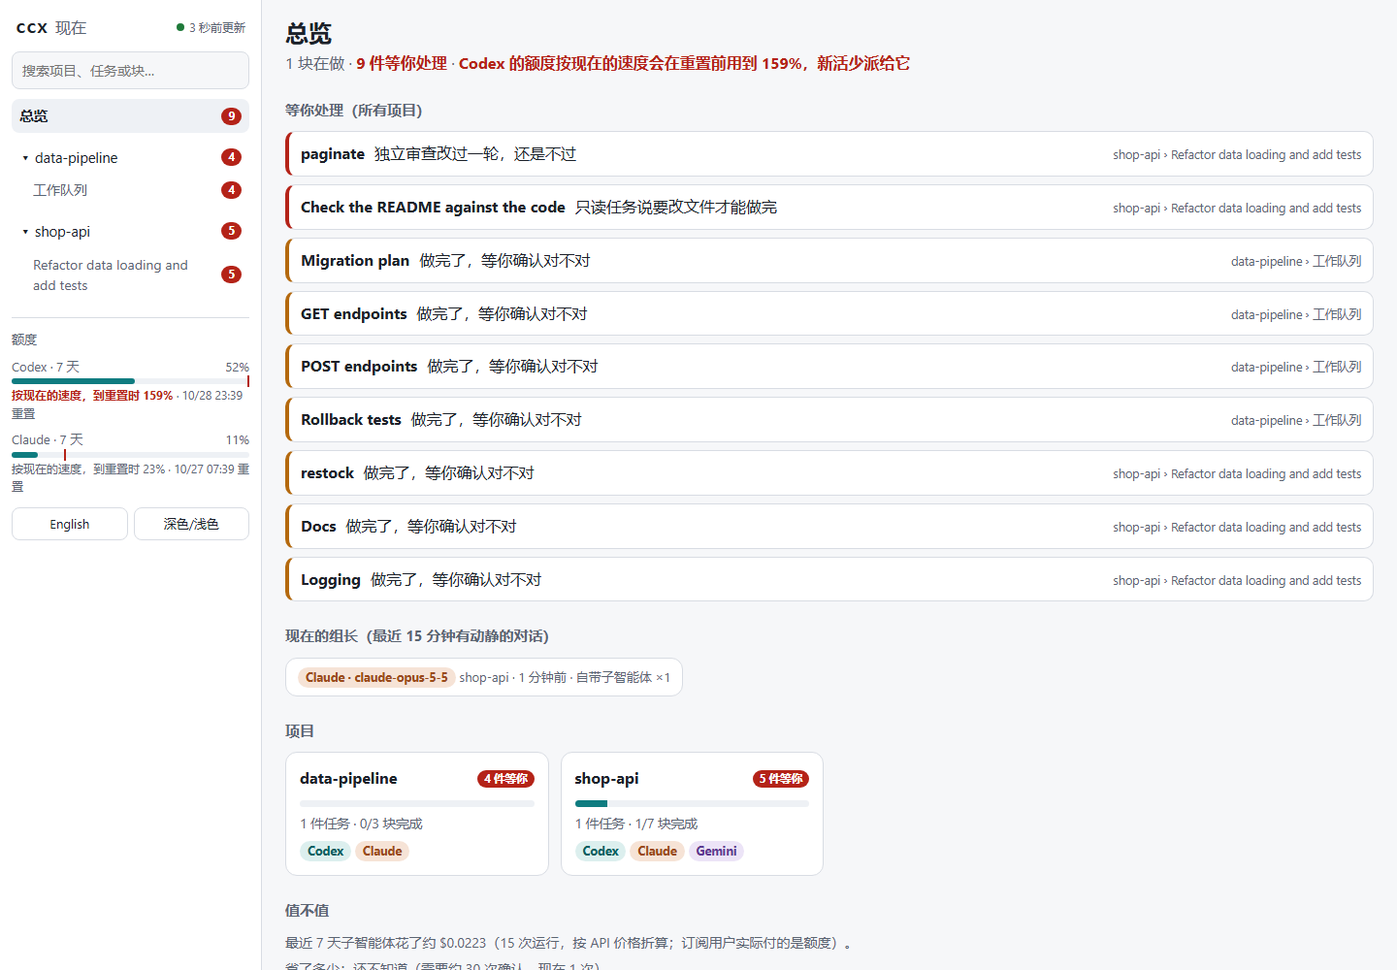
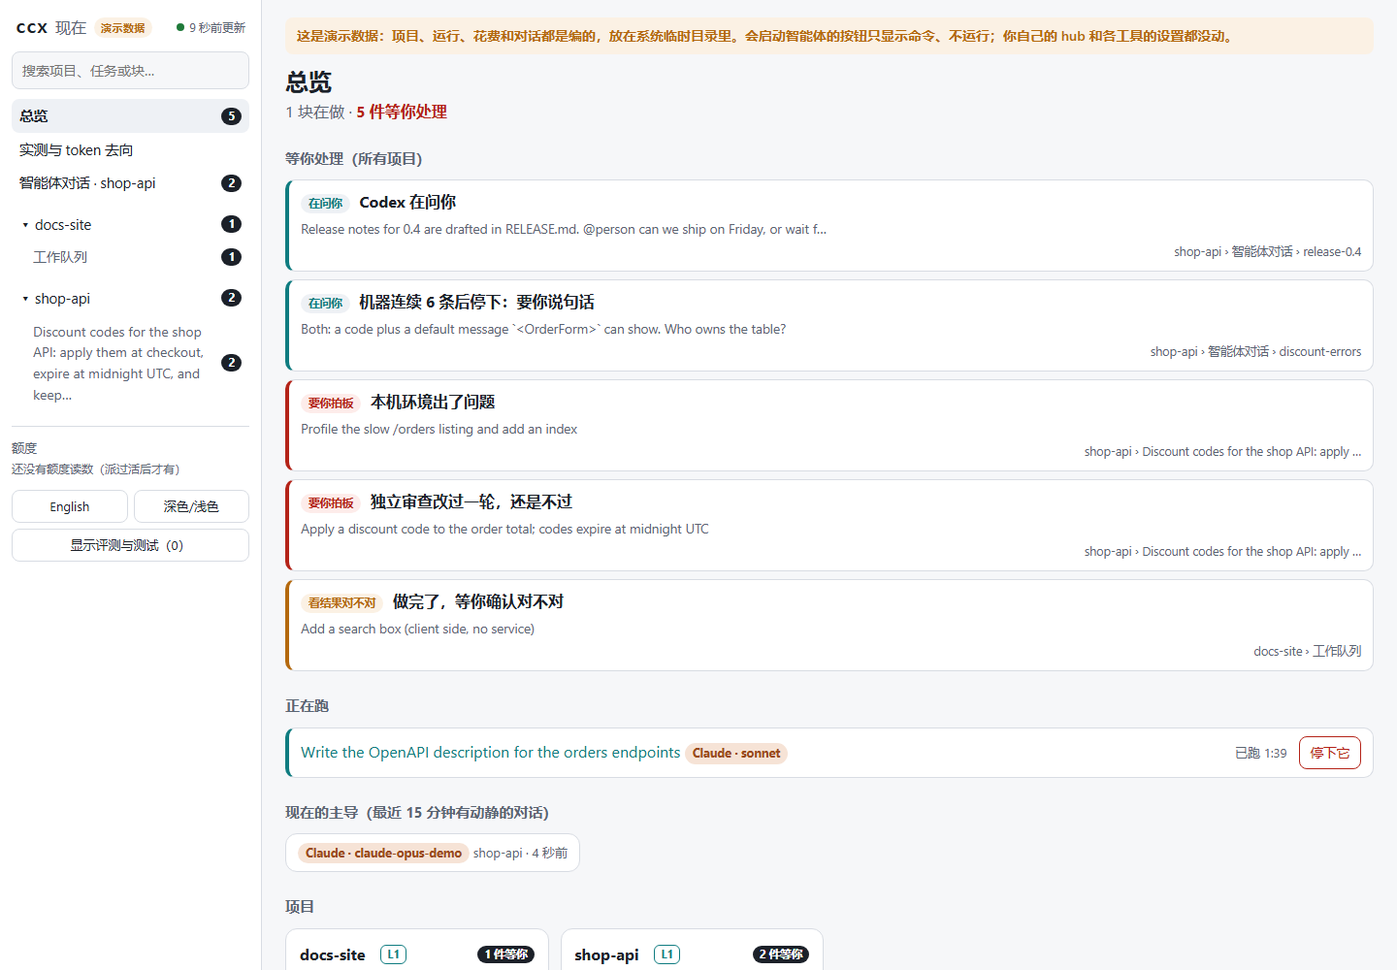
P2-3 截图：scripts/make_shots.py 用 ccx demo 数据和无头浏览器重拍 ccx ui（英文 5 张 + 中文/深色），重拍 k6-month-zh（去掉旧估算），删旧图；README 与网站各 2 张；页面文字里出现本机路径就不写图

diff --git a/site/index.html b/site/index.html
@@ -105,16 +105,16 @@
 
   <section id="ui">
     <h2>The live page: <code>ccx ui</code></h2>
-    <p class="note">Read-only, on 127.0.0.1 only, never calls a model: what waits for your call (red) or review (amber), what each agent is doing, and whether the quota lasts at this pace. Screenshots use demo data (<code>scripts/ui_demo.py</code>).</p>
+    <p class="note">Read-only, on 127.0.0.1 only, never calls a model: what waits for your call (red) or review (amber), what each agent is doing, and whether the quota lasts at this pace. Screenshots: <code>ccx demo</code>'s made-up data (<code>scripts/make_shots.py</code>).</p>
     <div class="figure shot">
-      <img class="for-light" src="assets/ui/task-zh.png" width="1440" height="1000" loading="lazy"
-           alt="ccx ui task page in Chinese: a task as an org chart, one column per worker, the side panel showing why a piece needs your call (demo data)">
+      <img class="for-light" src="assets/ui/task-en.png" width="1440" height="1000" loading="lazy"
+           alt="ccx ui task page: a task as an org chart, one column per worker; the side panel is one hand-off's receipt: cost, the check ccx ran again, the review (demo data)">
       <img class="for-dark" src="assets/ui/task-en-dark.png" width="1440" height="1000" loading="lazy"
            alt="ccx ui task page in English, dark theme (demo data)">
     </div>
     <div class="figure shot">
-      <img src="assets/ui/overview-zh.png" width="1440" height="1000" loading="lazy"
-           alt="ccx ui overview in Chinese: what waits for you, the current lead, projects and the quota forecast (demo data)">
+      <img src="assets/ui/tokens-en.png" width="1440" height="1000" loading="lazy"
+           alt="ccx ui, where tokens go: one ledger across agents, requests per run, a Codex helper session under its run (demo data)">
     </div>
   </section>
 

diff --git a/site/zh/index.html b/site/zh/index.html
@@ -105,16 +105,16 @@
 
   <section id="ui">
     <h2>本机界面：<code>ccx ui</code></h2>
-    <p class="note">只读页面，只监听 127.0.0.1，不调用模型：有什么等你拍板（红框）或 review（橙框）、每个智能体在干什么、额度按现在的速度够不够。截图用演示数据（<code>scripts/ui_demo.py</code>）。</p>
+    <p class="note">只读页面，只监听 127.0.0.1，不调用模型：有什么等你拍板（红框）或 review（橙框）、每个智能体在干什么、额度按现在的速度够不够。截图用 <code>ccx demo</code> 编好的数据（<code>scripts/make_shots.py</code>）。</p>
     <div class="figure shot">
       <img class="for-light" src="../assets/ui/task-zh.png" width="1440" height="1000" loading="lazy"
-           alt="ccx ui 任务页：一件任务画成组织图，每个干活的一列，右边是为什么要你拍板（演示数据）">
+           alt="ccx ui 任务页：一件任务画成组织图，每个干活的一列；右边是一次派活的收据：花费、ccx 重跑的验收、审查（演示数据）">
       <img class="for-dark" src="../assets/ui/task-en-dark.png" width="1440" height="1000" loading="lazy"
-           alt="ccx ui 任务页，英文、深色（演示数据）">
+           alt="ccx ui task page in English, dark theme (demo data)">
     </div>
     <div class="figure shot">
-      <img src="../assets/ui/overview-zh.png" width="1440" height="1000" loading="lazy"
-           alt="ccx ui 总览：等你处理的事、现在的主导、项目和额度预测（演示数据）">
+      <img src="../assets/ui/k6-month-zh.png" width="1440" height="1000" loading="lazy"
+           alt="ccx ui 总管看板：各项目、现在的主导、这个月只显示实际花费（演示数据）">
     </div>
   </section>
 

diff --git a/scripts/make_shots.py b/scripts/make_shots.py
@@ -1,0 +1,160 @@
+"""Regenerate the `ccx ui` screenshots in docs/assets/ui/ from `ccx demo`'s data, with a headless Chrome or Edge.
+
+    python scripts/make_shots.py [--browser PATH] [--only NAME ...] [--keep]
+
+Each shot is the real page (the same server as `ccx ui`) on the demo hub ccx/demo.py writes (made-up projects, runs
+and costs, marked "demo data" on the page), opened at one route in one language and theme, 1440×1000. Before a PNG is
+written, the page's text (the browser's --dump-dom of the same route) is checked for the demo folder's path and the
+person's home folder: a screenshot must not show where this machine keeps its files. No account, no network, no
+agent CLI; the demo folder is deleted afterwards (--keep keeps it)."""
+from __future__ import annotations
+
+import argparse
+import json
+import os
+import re
+import shutil
+import subprocess
+import sys
+import tempfile
+import threading
+import time
+from pathlib import Path
+
+ROOT = Path(__file__).resolve().parent.parent
+sys.path.insert(0, str(ROOT))
+OUT = ROOT / "docs" / "assets" / "ui"
+SIZE = (1440, 1000)
+
+
+def browser(given: str | None) -> str:
+    for name in (given, os.environ.get("CCX_TEST_BROWSER"), "google-chrome", "google-chrome-stable", "chromium",
+                 "chromium-browser", "chrome", "msedge"):
+        if name and (shutil.which(name) or Path(name).is_file()):
+            return shutil.which(name) or name
+    for f in (r"C:\Program Files\Google\Chrome\Application\chrome.exe",
+              r"C:\Program Files (x86)\Microsoft\Edge\Application\msedge.exe",
+              "/Applications/Google Chrome.app/Contents/MacOS/Google Chrome"):
+        if Path(f).is_file():
+            return f
+    raise SystemExit("no Chrome, Chromium or Edge found: give one with --browser")
+
+
+def routes(d: dict) -> dict[str, str]:
+    """The routes the shots open, from the demo's own data (ids are hashes of the demo folder)."""
+    from ccx import demo
+    shop = next(p for p in d["projects"] if p["name"] == demo.SHOP)
+
+    def walk(pcs):
+        for pc in pcs:
+            yield pc
+            yield from walk(pc.get("children") or [])
+    task = next(t for t in shop["tasks"] if any(pc["run_id"] == "demo-r-ok" for pc in walk(t["pieces"])))
+    sel = {pc["run_id"]: pc["id"] for pc in walk(task["pieces"])}
+    return {"overview": "/", "tokens": "/tokens", "project": f"/{shop['id']}",
+            "task": f"/{shop['id']}/{task['id']}?sel={sel['demo-r-ok']}",
+            "judge": f"/{shop['id']}/{task['id']}?sel={sel['demo-r-review']}"}
+
+
+# name -> (route key, language, theme, scrolled to): 1440x1000, the language and theme the page is opened in. A
+# headless screenshot cannot scroll: a shot "scrolled to" y is the page rendered 1000 + y tall, cut from y, with the
+# top of the sidebar put back (as the page looks scrolled: the demo's content is the same every time). Needs Pillow.
+SIDEBAR_W = 270
+SHOTS = {
+    "overview-en": ("overview", "en", "light", 0),
+    "task-en": ("task", "en", "light", 0),
+    "judge-en": ("judge", "en", "light", 0),
+    "month-en": ("overview", "en", "light", 730),
+    "tokens-en": ("tokens", "en", "light", 1385),
+    "k6-month-zh": ("overview", "zh", "light", 690),
+    "overview-zh": ("overview", "zh", "light", 0),
+    "task-zh": ("task", "zh", "light", 0),
+    "task-en-dark": ("task", "en", "dark", 0),
+}
+
+
+def shoot(exe: str, url: str, lang: str, theme: str, size: tuple[int, int], out: Path | None, prof: Path) -> str:
+    """One page: its text after the scripts ran (--dump-dom), then, when `out` is given, its screenshot."""
+    base = [exe, "--headless=new", "--disable-gpu", "--no-first-run", "--no-default-browser-check", "--hide-scrollbars",
+            f"--user-data-dir={prof}", f"--lang={'zh-CN' if lang == 'zh' else 'en-US'}", f"--window-size={size[0]},{size[1]}",
+            "--force-device-scale-factor=1", "--virtual-time-budget=10000"]
+    if theme == "dark":
+        base.append("--force-dark-mode")
+    if sys.platform.startswith("linux"):
+        base.append("--no-sandbox")
+    r = subprocess.run([*base, "--dump-dom", url], capture_output=True, text=True, encoding="utf-8", errors="replace",
+                       timeout=120)
+    if "<main" not in r.stdout:
+        raise SystemExit(f"the page did not render: {r.stderr[-400:]}")
+    if out:
+        subprocess.run([*base, f"--screenshot={out}", url], capture_output=True, timeout=120, check=True)
+    return re.sub(r"\s+", " ", re.sub(r"<[^>]+>", " ", r.stdout))
+
+
+def scrolled(f: Path, top: int) -> None:
+    from PIL import Image
+    with Image.open(f) as im:
+        page = im.convert("RGB")
+    out = page.crop((0, top, SIZE[0], top + SIZE[1]))
+    out.paste(page.crop((0, 0, SIDEBAR_W, SIZE[1])), (0, 0))
+    out.save(f, optimize=True)
+
+
+def leaks(text: str, base: Path) -> list[str]:
+    """Where this machine keeps files, if the page text shows it: the demo folder, the home folder, a user folder."""
+    found = []
+    for s in {str(base), str(base).replace("\\", "/"), str(Path.home()), str(Path.home()).replace("\\", "/")}:
+        if s and s in text:
+            found.append(s)
+    found += re.findall(r"[A-Za-z]:[\/]+Users[\/]+[^\/\s]+|/(?:Users|home)/[^/\s]+", text)
+    return found
+
+
+def main() -> int:
+    from ccx import demo, ui
+    ap = argparse.ArgumentParser()
+    ap.add_argument("--browser")
+    ap.add_argument("--only", nargs="*", help="these shots only (names: " + ", ".join(SHOTS) + ")")
+    ap.add_argument("--out", default=str(OUT))
+    ap.add_argument("--keep", action="store_true", help="keep the demo folder")
+    a = ap.parse_args()
+    exe = browser(a.browser)
+    out = Path(a.out)
+    out.mkdir(parents=True, exist_ok=True)
+    base = demo.new_base()
+    try:
+        p = demo.build(base)
+        os.environ.update(demo.env(base))
+        srv = ui.UI(p, idle_s=300)
+        threading.Thread(target=srv.serve, daemon=True).start()
+        time.sleep(0.5)
+        rts = routes(ui.collect(p))
+        bad = 0
+        with tempfile.TemporaryDirectory() as profs:
+            for name, (key, lang, theme, top) in SHOTS.items():
+                if a.only and name not in a.only:
+                    continue
+                url = f"http://127.0.0.1:{srv.port}/#k={srv.token}&{rts[key]}"
+                prof = Path(profs) / name
+                h = SIZE[1] + top
+                text = shoot(exe, url, lang, theme, (SIZE[0], h), None, prof)
+                if leaks(text, base):
+                    print(f"{name}: NOT written, the page shows {leaks(text, base)}", file=sys.stderr)
+                    bad += 1
+                    continue
+                f = out / f"{name}.png"
+                shoot(exe, url, lang, theme, (SIZE[0], h), f, prof)
+                if top:
+                    scrolled(f, top)
+                print(f"wrote {f.relative_to(ROOT) if f.is_relative_to(ROOT) else f} ({f.stat().st_size // 1024} KB)")
+        srv.stop()
+        return 1 if bad else 0
+    finally:
+        if a.keep:
+            print("kept", base)
+        else:
+            demo.remove(base)
+
+
+if __name__ == "__main__":
+    sys.exit(main())

diff --git a/docs/features.zh.md b/docs/features.zh.md
@@ -33,17 +33,21 @@
 
 `ccx ui` 在本机打开一个页面：有什么等你处理（红框 = 要你拍板，橙框 = 要你 review）、谁在干什么（每个智能体一列，新加的自动多一列）、额度按现在的速度够不够。点任何一块，右边显示原因、依据和按钮（因本机环境停下的运行，`kind: env`，显示修复提示和 `ccx doctor`，不给“再试一次”；hub 还是空的时，首页说第一步该运行什么）。它也是总管看板：`ccx projects` 目录里的所有项目（项目里有工作队列，就算这里最近没派过活也会显示；没动静的项目只占一行；项目页摘出它规则文件里讲审批的原句），以及这个月子智能体花了多少；省了多少要等 `ccx trial` 实测之后才显示（到目前为止实测总花费基本持平，见 docs/measured.zh.md；和 `ccx report` 同一规则）。会改东西的按钮——停下运行、记对错、再改一轮、续跑、允许它改、改队列预算——先显示要运行的完整 `ccx` 命令，再点一次才运行；会启动子智能体的按钮会写明要花钱，并在后台跑。页面只告诉服务端“按了哪个按钮”，从不发命令；服务端只运行固定几条 ccx 命令，按参数列表运行（不经过 shell），只接受这个页面自己的请求（同源、口令、一次性确认）。“建议记下的事”每条有同意/拒绝按钮。显示页面只读 ccx 和各工具本来就写下的文件，不调用任何模型；只监听 127.0.0.1，页面关掉约一分钟后自己退出（若当时在后台标签页，最多 5 分钟）。要你 review 的卡片并排显示“它说”（它的总结、它说自己怎么验证的）和“ccx 实际跑了”（验收命令、退出码、最后约 800 字的输出），下面是实际改动的文件和 diff：用 ccx 自己给这次运行记的快照算（运行前的树 `undo.json` 到运行结束时的树 `end.json` 或 `undo.json` 里的 `after`），从不对着现在的目录算；它报的文件和实际改动对不上时，用红框列出差别。diff 太长会截断并写明“已截断”；没有这些快照的旧运行照旧只显示它自己报的文件，并加一句说明。首页列出所有正在跑的运行（谁在跑、跑了多久、知道的话还有 token 数），每条带“停下它”按钮，同样要再点一次确认。页面在后台标签页时，“还开着”的信号会说明这一点，服务端这时等 5 分钟而不是 1 分钟才退出。待办小标签改成按钮（键盘可达），新待办会通过读屏播报。“智能体对话”页面显示各智能体在对话板上互相写的话（`ccx say`），最新的话题在前；被机器连续条数上限停下的话题、在问你的消息（`@person`）会出现在待办里，你可以直接在页面上回复：先给你看，再点一次才以你的身份写入（via ui），最多 4000 字，永远不会运行（[对话板](board.zh.md#在-ccx-ui-里看和回复)）。`ccx ui --export 快照.html` 生成静态副本；`ccx config set ui.lang zh|en` 选语言。**实测与 token 去向**页面（只读）分三部分。(1) 已发布的数字（留出集和第 5 轮两张表：做法、做对、每次成功的花费、用时中位数；留出集里只看外部仓库的那几行是干净的，单独成一张小表；每张表的限制写成一行，并链接 [实测](measured.zh.md)；有测试按做法和轮次逐格对照 measured.md 和 measured.zh.md 里的表），下面是你自己账本里的数字（运行次数、成功率、每次成功的 API 等价花费，按模式和智能体分），标明“你自己的运行，不是对照比较”。(2) token 去向：Claude 和 Codex 记在同一本账上，按任务分组（没有任务按标签，再没有按单次运行）；每次运行显示新读入、读缓存、写缓存、输出 token 和 API 等价花费（日志里读得到时，还有它自己这段对话发了几次请求、首请求的输入、平均每次请求的输入——也就是每次重发的那段前缀，省 token 的改动要降的就是这几个数；这里不算子会话的请求，而 token 那几列含子会话），下面是它自己开的子会话（Codex 的来自运行记录里的 `codex_children`，Claude 的来自子运行的 `<session>/subagents/*.jsonl`）及其占这次运行的比例；一次运行的总数本来就含这些子会话。续跑或接着做的运行只显示它的子会话新增的部分（减掉前一次运行自己的记录，不受筛选和分组影响）；几次运行共用一个 Claude 会话时，每次运行只算自己那段时间里的子智能体轮次。比例不封顶：超过 100% 时页面会说明两边的数对不上。可按今天 / 7 天 / 全部和项目筛选（用了 `ccx ui --project` 时，“全部项目”也真的是全部）。按智能体的合计大的在前。只列最新的 40 个任务，并写明省掉了多少，以及它们的 token 和金额。(3) 主导对话：派过活的主导会话，最新的在前；打开一个时才读它的会话文件，用的就是 `ccx lead --breakdown` 和 `ccx lead --cache` 的函数：每一轮重读的内容按部分有多大、建议，以及提示缓存断开的那几轮和可能的原因。只读账本里点名的会话；返回内容有大小上限；所有标签和会话文字都转义；hub 为空时说明该先运行什么。每个项目页（以及任务的“经过”下面）有**谁在主导**：现在由谁主导、每段时间由谁主导（来自 `.ccx/handoffs/` 里的交接记录），以及“交给 Codex 继续”/“交给 Claude 继续”（装了 `dsh` 的机器上还有 DeepSeek）。按钮同样要再点一次才运行 `ccx handoff --to <另一个> --by <当前> --cwd <项目>`；当前主导在这个目录的对话文件存在时加上 `--from-transcript <当前> --no-model`（只用代码整理，不调模型）。结果是交接文件和一行话：在那个工具里打开这个项目时贴给它（Claude Code 和 Codex 启动时也会自动显示一次这份交接；DeepSeek 不会，这一行让它去读那份文件）。找不到那个对话文件时，交接是空白模板，页面在确认前和完成后都会说明：先自己填好。任务时间线标出任务开始时由谁主导、之后每次换主导。页面上没有别的新写入。**`ccx demo`**（或 `ccx ui --demo`）不用账号就能看到这些：它在系统临时目录新建一个文件夹，写入编好的数据（两个项目、各种状态的运行且带真实快照 diff、一次派活的完整收据——花了多少、ccx 跑的检查、另一家的审查——审查本身也记成运行、一个工作队列、一个被停下的对话话题和一个 `@person` 提问、一个月的花费，以及给 token 去向页用的每次请求数和一个 Codex 子会话），只让它自己的进程指向那里，用同一个页面显示并标明“演示数据”。离线可用，不启动任何智能体：会启动智能体的按钮只显示命令；记对错或交接只写进演示文件夹，页面关掉后文件夹会删掉（`--keep` 或 `--dir` 保留；`--export 文件` 生成静态副本，之后同样删掉文件夹）。`--dir` 只接受新的或空的文件夹，或以前的演示文件夹。评测和测试（eval-* 标签、`--no-ab`、ccx 自己的探针、在临时目录或项目 `.ccx` 目录里跑的）默认不显示，点“显示评测与测试”才出来；`ccx verify RUN --dismiss --note 原因` 把测试残留从“等你处理”里清掉，不算对也不算错，路由也不从它学习。
 
-<img alt="ccx ui 总管看板：所有项目里等你处理的事、本月花费、目录里没动静的项目（演示数据）" src="assets/ui/k6-month-zh.png" width="100%">
+截图：`ccx demo` 的数据，用 `python scripts/make_shots.py` 拍。
 
-<img alt="按钮的第二次确认：要运行的完整命令，以及会不会花钱（演示数据）" src="assets/ui/k6-confirm-zh.png" width="100%">
+<img alt="ccx ui 总览：所有项目里等你处理的事（提问、要你拍板、看结果）、正在跑的（演示数据）" src="assets/ui/overview-zh.png" width="100%">
 
-<img alt="ccx ui 总览：等你处理的 9 件事、现在的主导、两个项目和额度预测（演示数据）" src="assets/ui/overview-zh.png" width="100%">
+<img alt="ccx ui 任务页：一件任务画成组织图，每个干活的一列；右边是一次派活的收据：谁做的、花费、ccx 重跑的验收、审查、结论、实际改动的文件（演示数据）" src="assets/ui/task-zh.png" width="100%">
 
-<img alt="ccx ui 任务页：一件任务画成组织图，每个干活的一列，右边是为什么要你拍板（演示数据）" src="assets/ui/task-zh.png" width="100%">
+<img alt="ccx ui 总管看板：各项目、现在的主导、这个月的花费（实测省多少之前只显示花费）、谁在哪类活上更靠谱（演示数据）" src="assets/ui/k6-month-zh.png" width="100%">
 
-<details><summary>英文界面、深色</summary>
+<details><summary>英文界面（判断卡、token 去向）、深色</summary>
 
-<img alt="ccx ui in English, dark theme: the same task page (demo data)" src="assets/ui/task-en-dark.png" width="100%">
+<img alt="ccx ui decision card in English: a run whose review still finds problems, what the agent says beside what ccx ran (demo data)" src="assets/ui/judge-en.png" width="100%">
+
+<img alt="ccx ui, where tokens go, in English (demo data)" src="assets/ui/tokens-en.png" width="100%">
+
+<img alt="ccx ui task page in English, dark theme (demo data)" src="assets/ui/task-en-dark.png" width="100%">
 
 </details>
 

diff --git a/docs/features.md b/docs/features.md
@@ -89,17 +89,27 @@ Evaluations and tests (eval-* labels, `--no-ab`, ccx's probes, runs in the tempo
 folder) stay hidden until you press "show evaluations and tests"; `ccx verify RUN --dismiss --note why` clears a
 leftover from "waits for you" without counting it right or wrong, and routing never learns from it.
 
-<img alt="ccx ui task page in English, dark theme: a task as an org chart, one column per worker, the side panel showing why a piece needs your call (demo data)" src="assets/ui/task-en-dark.png" width="100%">
+Screenshots: `ccx demo`'s data, taken by `python scripts/make_shots.py`.
 
-<details><summary>Chinese interface, light</summary>
+<img alt="ccx ui overview: what waits for you across projects (questions, your calls, results to check), what is running (demo data)" src="assets/ui/overview-en.png" width="100%">
 
-<img alt="ccx ui as the manager's board: what waits for you across projects, this month's spend, the catalog's quiet projects (demo data; taken before the saving estimate was removed)" src="assets/ui/k6-month-zh.png" width="100%">
+<img alt="ccx ui task page: a task as an org chart, one column per worker; the side panel is one hand-off's receipt: who, cost, the check ccx ran again, the review, the verdict, the files actually changed (demo data)" src="assets/ui/task-en.png" width="100%">
 
-<img alt="A button's second click: the exact command, and whether it costs money (demo data)" src="assets/ui/k6-confirm-zh.png" width="100%">
+<img alt="ccx ui decision card: a run whose review still finds problems, what the agent says beside what ccx ran (demo data)" src="assets/ui/judge-en.png" width="100%">
 
-<img alt="ccx ui overview in Chinese: nine things waiting, the current lead, two projects and the quota forecast (demo data)" src="assets/ui/overview-zh.png" width="100%">
+<img alt="ccx ui as the manager's board: projects, the current leads, this month's spend (spend only until a saving is measured), who is reliable at what (demo data)" src="assets/ui/month-en.png" width="100%">
 
-<img alt="ccx ui task page in Chinese (demo data)" src="assets/ui/task-zh.png" width="100%">
+<img alt="ccx ui, where tokens go: one ledger across agents, requests per run, a Codex helper session under its run (demo data)" src="assets/ui/tokens-en.png" width="100%">
+
+<details><summary>Chinese interface; dark theme</summary>
+
+<img alt="ccx ui overview in Chinese (demo data)" src="assets/ui/overview-zh.png" width="100%">
+
+<img alt="ccx ui task page in Chinese, with the receipt (demo data)" src="assets/ui/task-zh.png" width="100%">
+
+<img alt="ccx ui manager's board in Chinese: projects and this month's spend (demo data)" src="assets/ui/k6-month-zh.png" width="100%">
+
+<img alt="ccx ui task page in English, dark theme (demo data)" src="assets/ui/task-en-dark.png" width="100%">
 
 </details>
 

diff --git a/README.md b/README.md
@@ -67,6 +67,11 @@ after the round-5 fixes (the first run, before them, was 17/20 at $0.248).
 **Try it without accounts:** `ccx demo` opens `ccx ui` on made-up projects, runs and costs in a temporary
 folder (offline, no Claude or Codex login; your own setup is not touched).
 
+<table><tr>
+<td width="50%"><img alt="ccx ui, one hand-off's receipt: Codex gpt-6-luna low did it, cost $0.0040, the check ccx ran again passed, Claude haiku's review passed, the files actually changed from ccx's own snapshots (ccx demo data)" src="docs/assets/ui/task-en.png"></td>
+<td width="50%"><img alt="ccx ui, where tokens go: one ledger across Claude, Codex and DeepSeek, requests per run, a Codex helper session under its run, the review as a run of its own (ccx demo data)" src="docs/assets/ui/tokens-en.png"></td>
+</tr><tr><td align="center">Every hand-off's receipt</td><td align="center">Where the tokens went</td></tr></table>
+
 ## Quick start
 
 ```bash
